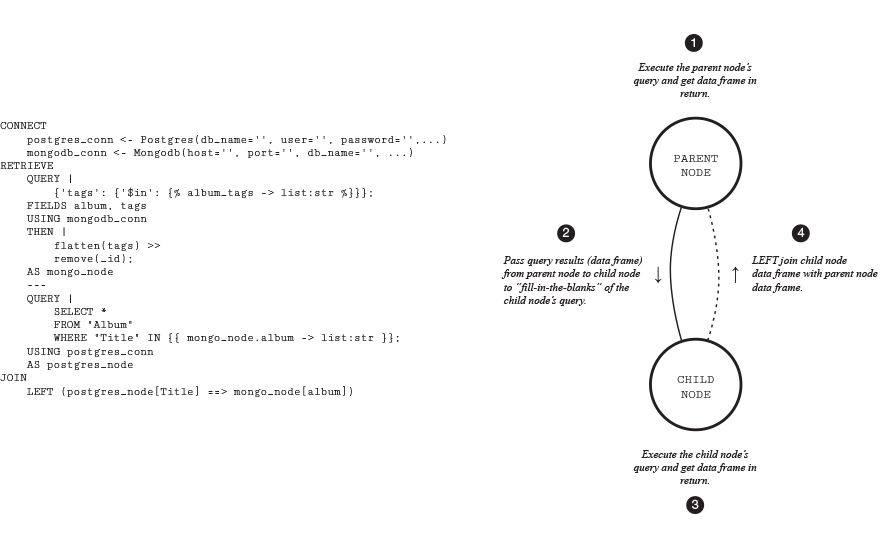
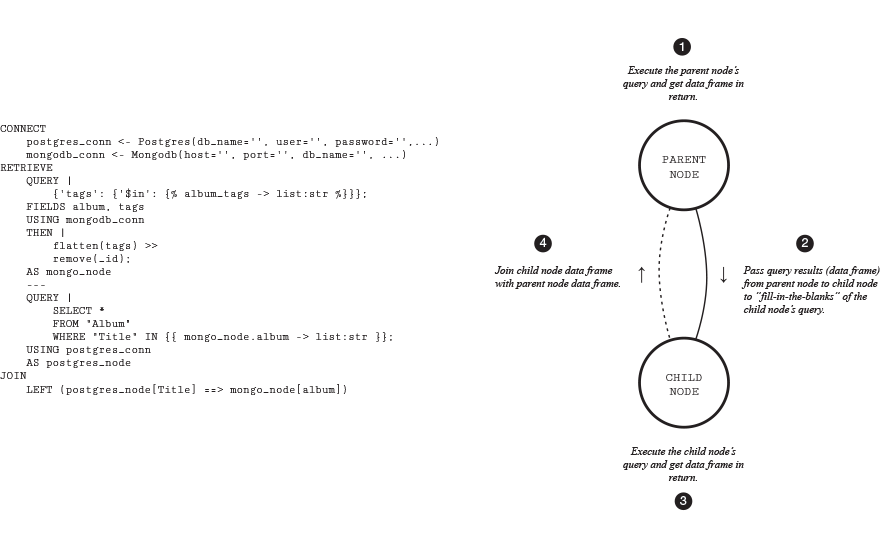
Working on README.md

diff --git a/README.md b/README.md
@@ -44,6 +44,11 @@ To install Query Graph...
 
 ## Brief Introduction
 
+A query graph is a directed, acyclic graph whose nodes each represent a
+single query on a database. When two nodes are connected, the data 
+resulting from the parent node's query is used to "fill-in-the-blanks" of
+the child node's query.
+
 ![QGL Syntax Railroad Diagram](docs/_static/images/query_graph_diagram.png)
 
 ### Example Query
